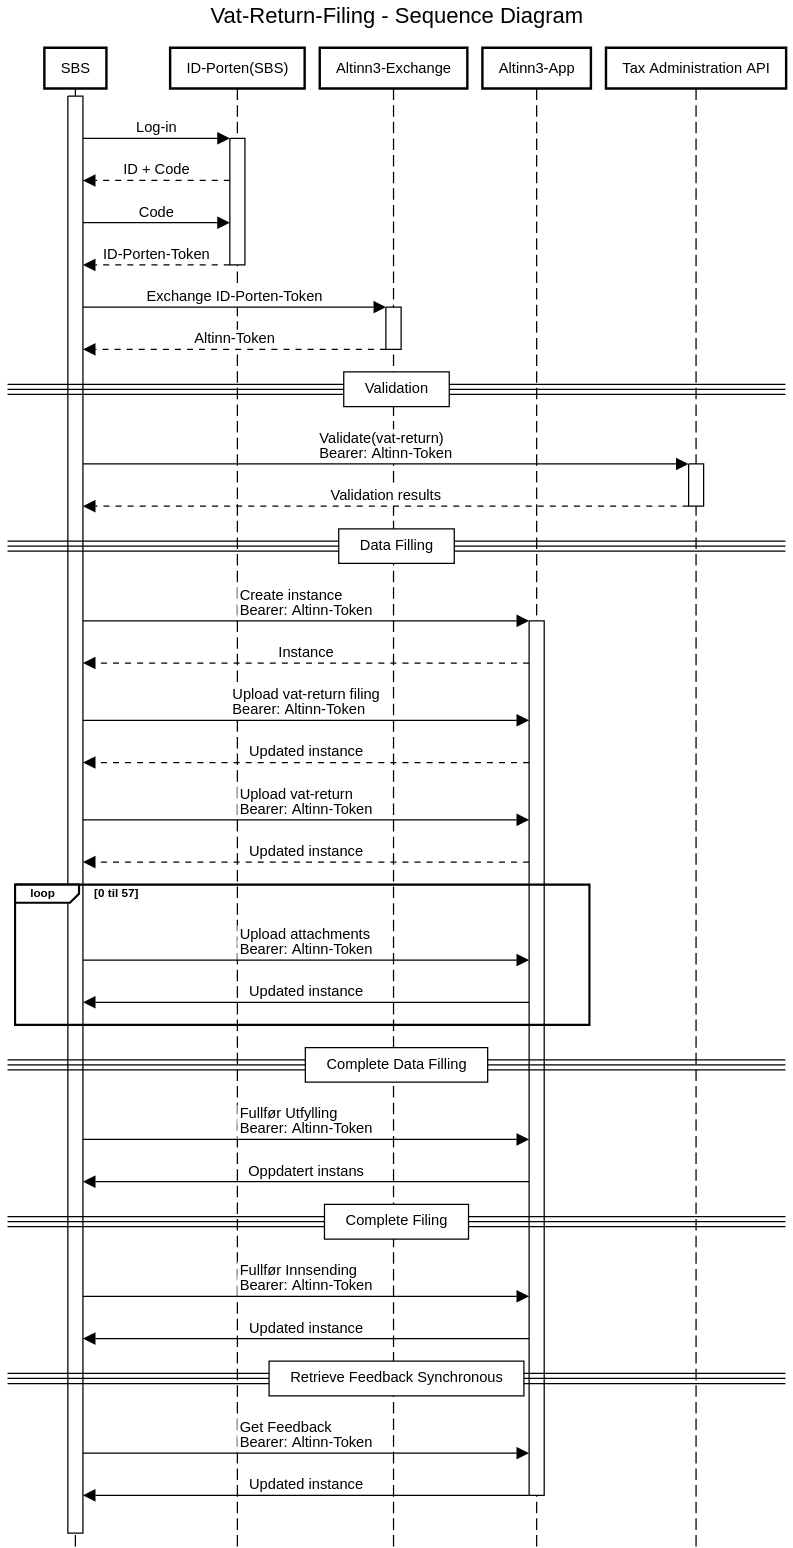
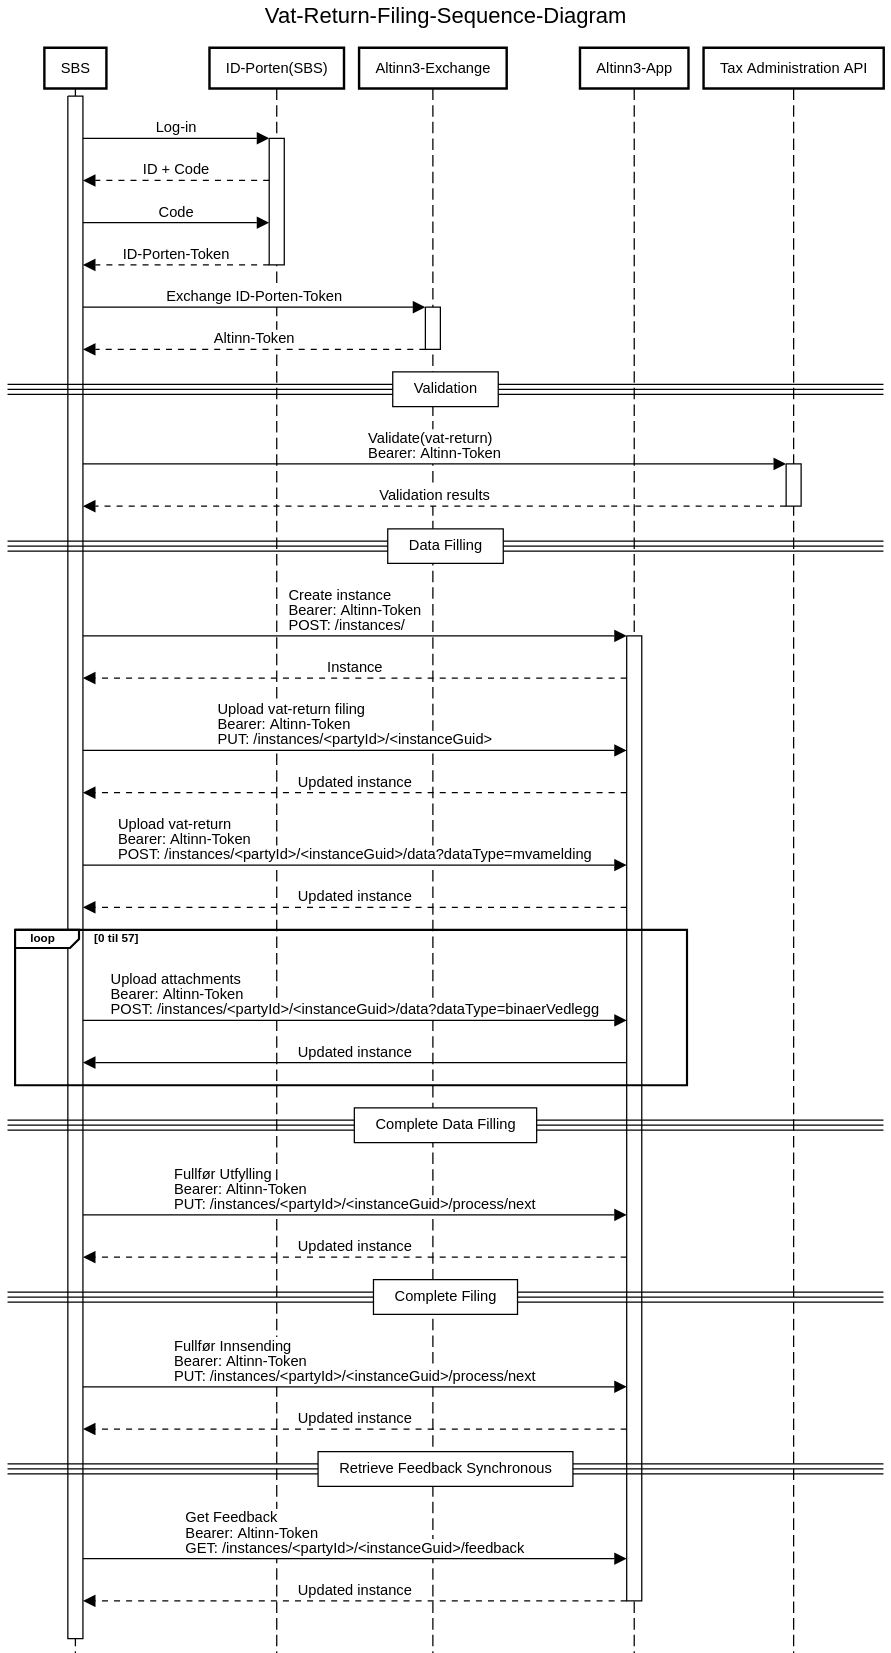
MEMO-4335 Oppdaterte sekvensdiagrammene. La til asynkron versjon.

Changed region(s): [[0.0, 0.0, 0.9987, 1.0]]

diff --git a/docs/english/api/index.md b/docs/english/api/index.md
@@ -124,7 +124,7 @@ instanceApiUrl = "https://skd.apps.tt02.altinn.no/skd/mva-melding-innfiling-etm2
 In the following sequence diagram, the application URL will be hidden, so if `POST: /intances/` is written it is
 implicitly `POST: instanceApiUrl`
 
-![](Mva-Melding-Innsending-Sekvensdiagram-English.png)
+![](Vat-Return-Filing-Sequence-Diagram.png)
 
 ### Change ID-Porten token to the Altinn token
 
